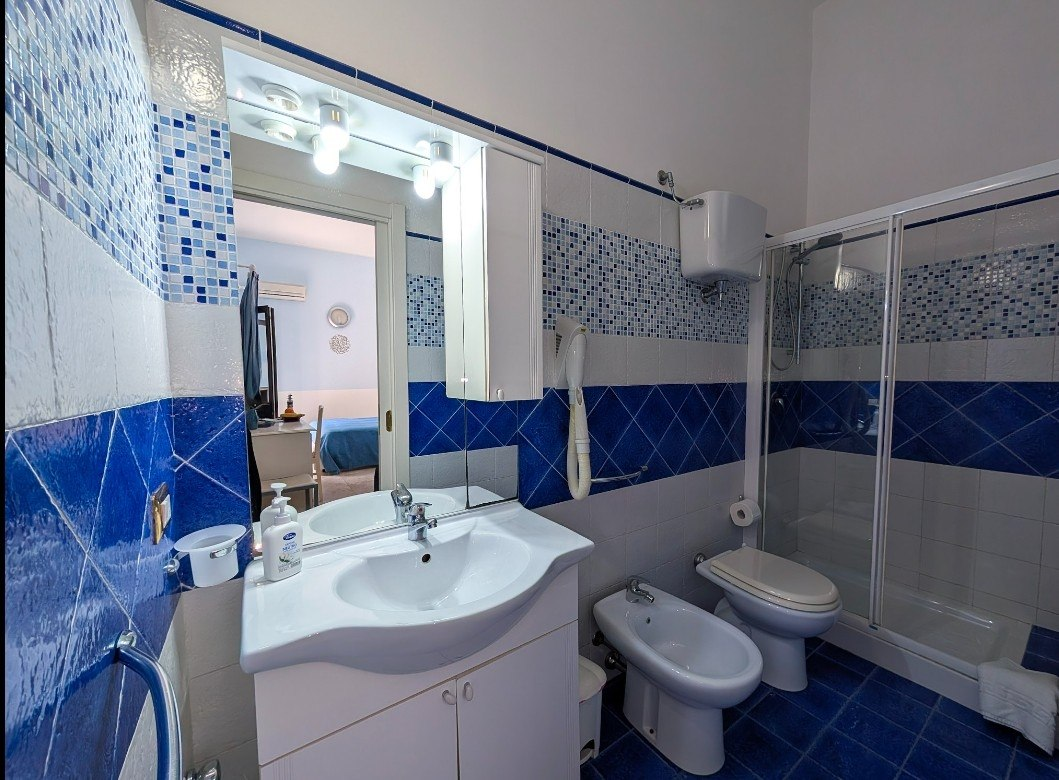
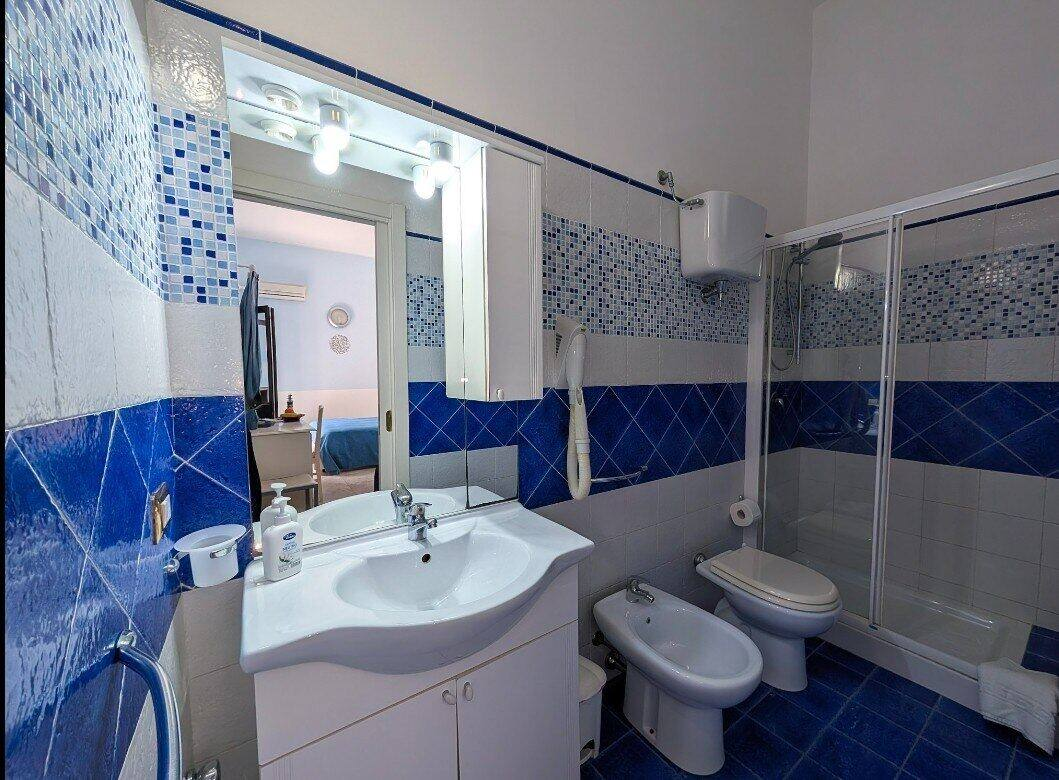
Improve website loading speed by optimizing images and adding lazy loading
Resized and compressed JPEG assets to a maximum width of 1280px with quality 72, and implemented lazy loading and asynchronous decoding for non-critical images across DimoreTeaser, Family, and Story components to reduce initial page load times.

Replit-Commit-Author: Agent
Replit-Commit-Session-Id: 3282c254-39d9-4994-9800-a5c7eca78cf3
Replit-Commit-Checkpoint-Type: full_checkpoint
Replit-Commit-Event-Id: 371a8bc6-30cc-4cca-a845-af6017335197
Replit-Commit-Screenshot-Url: https://storage.googleapis.com/screenshot-production-us-central1/efa49c66-f8b0-48f0-b6b8-e5fd97cf85d3/3282c254-39d9-4994-9800-a5c7eca78cf3/WwAEnof
Replit-Helium-Checkpoint-Created: true

diff --git a/artifacts/il-veliero/src/pages/DimoreTeaser.tsx b/artifacts/il-veliero/src/pages/DimoreTeaser.tsx
@@ -409,6 +409,8 @@ export default function DimoreTeaser() {
                   src={room.photos[currentPhoto]}
                   alt={`${room.name} — foto ${currentPhoto + 1} di ${totalPhotos}`}
                   className="w-full h-full object-cover"
+                  loading="lazy"
+                  decoding="async"
                   draggable={false}
                 />
               )}
@@ -524,6 +526,8 @@ export default function DimoreTeaser() {
                 src={room.photos[currentPhoto]}
                 alt={`${room.name} — foto ${currentPhoto + 1} di ${totalPhotos}`}
                 className="max-w-full max-h-full object-contain select-none"
+                loading="lazy"
+                decoding="async"
                 draggable={false}
                 data-testid="lightbox-image"
               />

diff --git a/artifacts/il-veliero/src/pages/Story.tsx b/artifacts/il-veliero/src/pages/Story.tsx
@@ -118,6 +118,8 @@ export default function Story() {
               <img
                 ref={image1Ref}
                 src={hotelImg1}
+                loading="lazy"
+                decoding="async"
                 alt="Hotel Il Veliero — la struttura nel cuore di San Vito Lo Capo"
                 className="absolute -top-[15%] left-0 w-full h-[130%] object-cover scale-105"
               />
@@ -157,6 +159,8 @@ export default function Story() {
               <img
                 ref={image2Ref}
                 src={hotelImg2}
+                loading="lazy"
+                decoding="async"
                 alt="Hotel Il Veliero — ambiente curato e atmosfera familiare"
                 className="absolute inset-0 w-full h-full object-cover"
               />

diff --git a/artifacts/il-veliero/src/pages/Family.tsx b/artifacts/il-veliero/src/pages/Family.tsx
@@ -124,6 +124,8 @@ export default function Family() {
             <img
               ref={imageRef}
               src={doorImg}
+              loading="lazy"
+              decoding="async"
               alt="L'ingresso de Il Veliero — porta in legno con ringhiera in ferro battuto"
               className="block w-full h-auto"
             />
